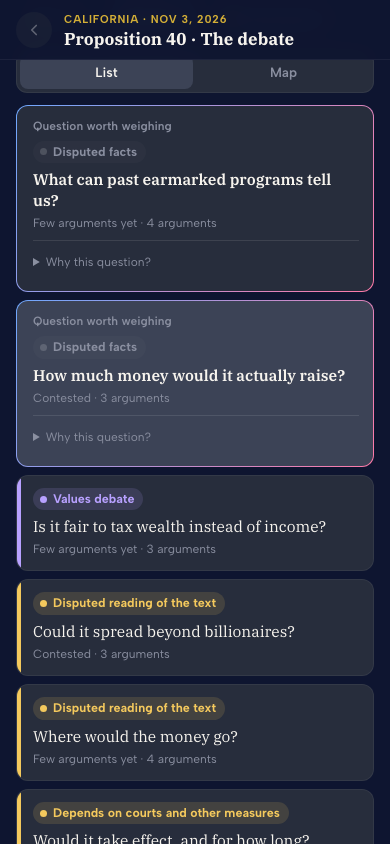
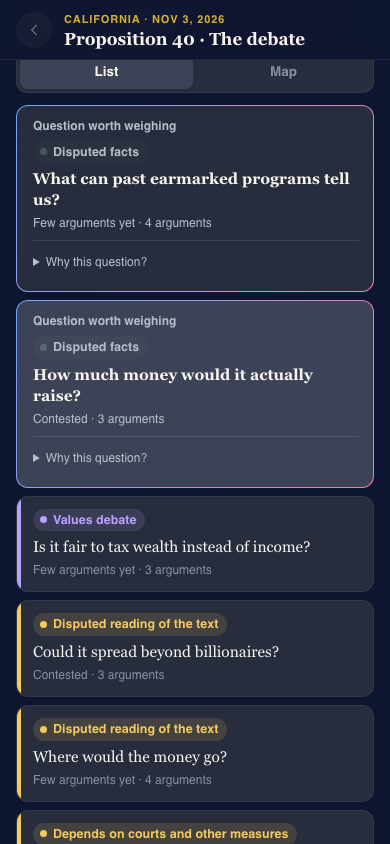
Improve contrast of question selection disclosures

diff --git a/apps/expo/src/components/trillion/dom/reader.css b/apps/expo/src/components/trillion/dom/reader.css
@@ -1466,7 +1466,7 @@ textarea {
   padding-top: 12px;
 }
 .selection-label {
-  color: var(--quiet);
+  color: #b9bdc9;
   font: 600 12px/1.4 var(--body);
 }
 .dispute-row.is-highlighted {
@@ -1483,8 +1483,10 @@ textarea {
 .dispute-row.is-highlighted::before {
   display: none;
 }
-.dispute-row.is-highlighted .relchip {
-  color: var(--quiet);
+.dispute-row.is-highlighted .relchip,
+.dispute-row.is-highlighted .src,
+.dispute-row.is-highlighted .selection-reason .meta {
+  color: #b9bdc9;
 }
 .dispute-row.is-highlighted .t {
   font-weight: 600;
@@ -1500,7 +1502,7 @@ textarea {
 }
 .selection-reason summary {
   cursor: pointer;
-  color: var(--quiet);
+  color: #b9bdc9;
   font-size: 12px;
   min-height: 44px;
   padding: 12px 0;

diff --git a/prototypes/trillion/reader.css b/prototypes/trillion/reader.css
@@ -1466,7 +1466,7 @@ textarea {
   padding-top: 12px;
 }
 .selection-label {
-  color: var(--quiet);
+  color: #b9bdc9;
   font: 600 12px/1.4 var(--body);
 }
 .dispute-row.is-highlighted {
@@ -1483,8 +1483,10 @@ textarea {
 .dispute-row.is-highlighted::before {
   display: none;
 }
-.dispute-row.is-highlighted .relchip {
-  color: var(--quiet);
+.dispute-row.is-highlighted .relchip,
+.dispute-row.is-highlighted .src,
+.dispute-row.is-highlighted .selection-reason .meta {
+  color: #b9bdc9;
 }
 .dispute-row.is-highlighted .t {
   font-weight: 600;
@@ -1500,7 +1502,7 @@ textarea {
 }
 .selection-reason summary {
   cursor: pointer;
-  color: var(--quiet);
+  color: #b9bdc9;
   font-size: 12px;
   min-height: 44px;
   padding: 12px 0;
